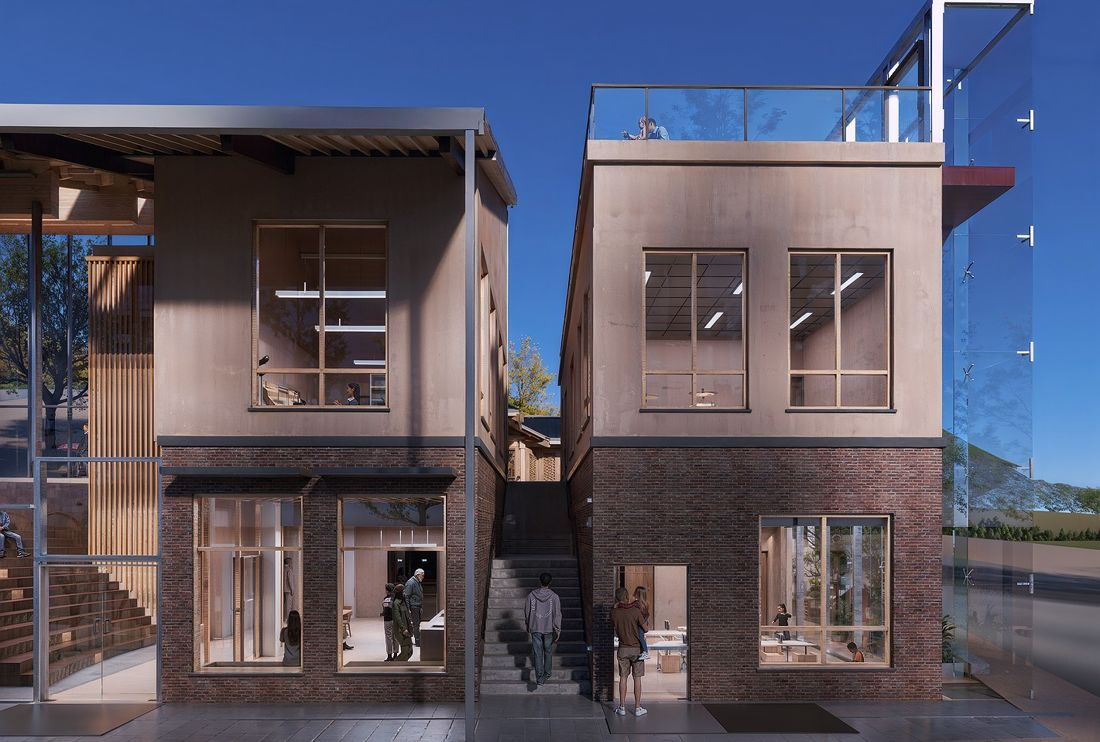
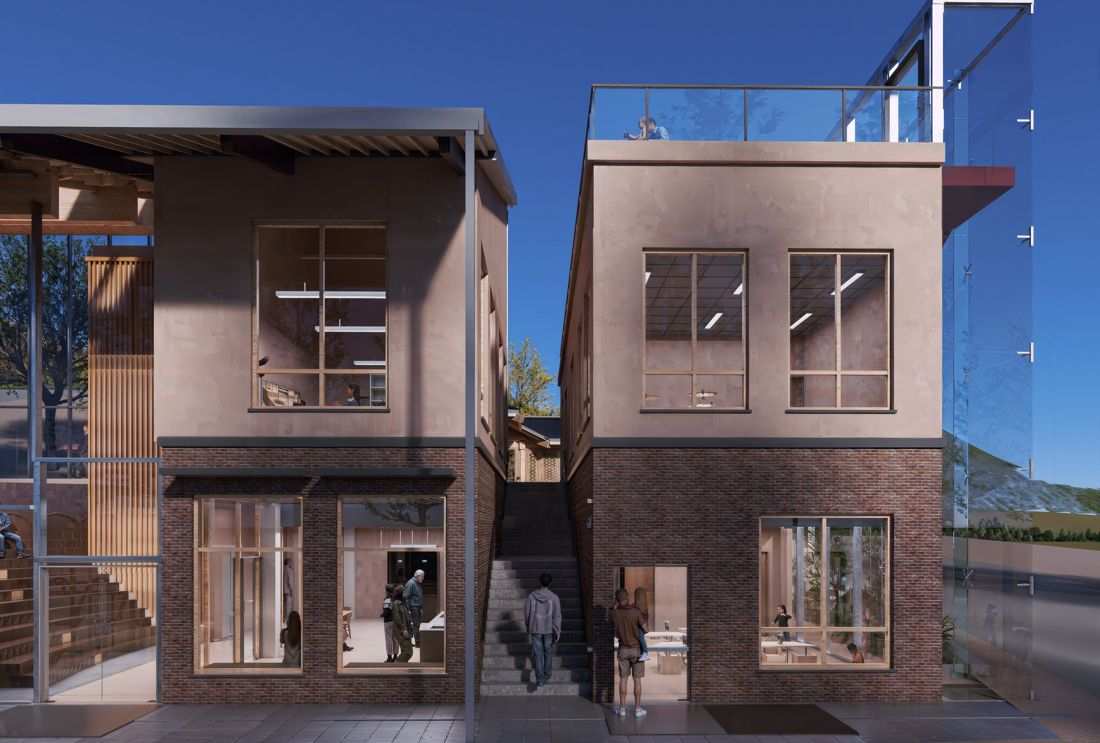
STOPOVER: higher-res alley-stair render
Claude-Session: https://claude.ai/code/session_016LbPh7z2mDRxgdtvgt8upL

diff --git a/works/stopover.html b/works/stopover.html
@@ -24,7 +24,7 @@
 <figure class="blk"><div class="row g" style="grid-template-columns:repeat(3,1fr)"><div><img class="" src="../img/3061.jpg" srcset="../img/s720_3061.jpg 720w, ../img/3061.jpg 1245w" sizes="(max-width:860px) 50vw, 46vw" width="1245" height="990" loading="lazy" decoding="async" alt=""></div><div><img class="" src="../img/3067.jpg" srcset="../img/s720_3067.jpg 720w, ../img/3067.jpg 1245w" sizes="(max-width:860px) 50vw, 46vw" width="1245" height="990" loading="lazy" decoding="async" alt=""></div><div><img class="" src="../img/3073.jpg" srcset="../img/s720_3073.jpg 720w, ../img/3073.jpg 1245w" sizes="(max-width:860px) 50vw, 46vw" width="1245" height="990" loading="lazy" decoding="async" alt=""></div><div><img class="" src="../img/3079.jpg" srcset="../img/s720_3079.jpg 720w, ../img/3079.jpg 1245w" sizes="(max-width:860px) 50vw, 46vw" width="1245" height="990" loading="lazy" decoding="async" alt=""></div><div><img class="" src="../img/3085.jpg" srcset="../img/s720_3085.jpg 720w, ../img/3085.jpg 1245w" sizes="(max-width:860px) 50vw, 46vw" width="1245" height="990" loading="lazy" decoding="async" alt=""></div><div><img class="" src="../img/3091.jpg" srcset="../img/s720_3091.jpg 720w, ../img/3091.jpg 1245w" sizes="(max-width:860px) 50vw, 46vw" width="1245" height="990" loading="lazy" decoding="async" alt=""></div></div></figure>
 <section class="txt"><h2>두 지면 사이의 길<small>Atrium</small></h2><div class="b"><p>서동과 집 1 사이를 비워 아트리움을 넣었다. 부채꼴 계단은 정류장 쪽 ±0에서 윗마당 +4000까지 이어지는 마을 서가이자 쉼터다.</p><p>이 길은 민원 창구와 직원 영역을 지나지 않는다. 볼일이 없어도 들어와 앉고, 올라가 마당으로 나갈 수 있다.</p></div></section>
 <figure class="blk w"><img class="" src="../img/3097.jpg" srcset="../img/s720_3097.jpg 720w, ../img/s1100_3097.jpg 1100w, ../img/3097.jpg 2400w" sizes="(max-width:860px) 70vw, min(92vw,1400px)" width="2400" height="1619" loading="lazy" decoding="async" alt="아트리움 위층 — 유리 지붕 아래, 창구를 지나지 않는 주민의 길"><figcaption>아트리움 위층 — 유리 지붕 아래, 창구를 지나지 않는 주민의 길</figcaption></figure>
-<figure class="blk w"><img class="" src="../img/stp_s11.jpg" srcset="../img/s720_stp_s11.jpg 720w, ../img/s1100_stp_s11.jpg 1100w, ../img/stp_s11.jpg 1421w" sizes="(max-width:860px) 70vw, min(92vw,1400px)" width="1421" height="959" loading="lazy" decoding="async" alt="집 1과 집 2 사이 골목 계단 — 정류장 쪽에서 윗마당으로"><figcaption>집 1과 집 2 사이 골목 계단 — 정류장 쪽에서 윗마당으로</figcaption></figure>
+<figure class="blk w"><img class="" src="../img/stp_s11.jpg" srcset="../img/s720_stp_s11.jpg 720w, ../img/s1100_stp_s11.jpg 1100w, ../img/stp_s11.jpg 2400w" sizes="(max-width:860px) 70vw, min(92vw,1400px)" width="2400" height="1620" loading="lazy" decoding="async" alt="집 1과 집 2 사이 골목 계단 — 정류장 쪽에서 윗마당으로"><figcaption>집 1과 집 2 사이 골목 계단 — 정류장 쪽에서 윗마당으로</figcaption></figure>
 <section class="txt"><h2>정자를 윗마당으로<small>Upper Yard</small></h2><div class="b"><p>원래 대지 남동쪽 모서리의 정자는 동네의 마을 마당 같은 곳이었다. 그 자리에는 아이돌봄을 두고, 정자가 하던 일은 윗 지면의 마당으로 옮겨 더 크게 이어받았다.</p><p>마당과 누마루, 한옥이 함께 놓인 이곳은 정류장에서 아트리움 계단이나 골목 계단을 따라 올라오면 닿는다.</p></div></section>
 <figure class="blk w"><img class="" src="../img/3105.jpg" srcset="../img/s720_3105.jpg 720w, ../img/s1100_3105.jpg 1100w, ../img/3105.jpg 2400w" sizes="(max-width:860px) 70vw, min(92vw,1400px)" width="2400" height="1600" loading="lazy" decoding="async" alt="한옥에서 본 윗마당과 누마루"><figcaption>한옥에서 본 윗마당과 누마루</figcaption></figure>
 <figure class="blk w"><img class="" src="../img/stp_s28.jpg" srcset="../img/s720_stp_s28.jpg 720w, ../img/s1100_stp_s28.jpg 1100w, ../img/stp_s28.jpg 2400w" sizes="(max-width:860px) 70vw, min(92vw,1400px)" width="2400" height="1622" loading="lazy" decoding="async" alt="1층 민원실 — 창구는 제 역할을 그대로, 창가에는 기다리며 앉는 자리"><figcaption>1층 민원실 — 창구는 제 역할을 그대로, 창가에는 기다리며 앉는 자리</figcaption></figure>
